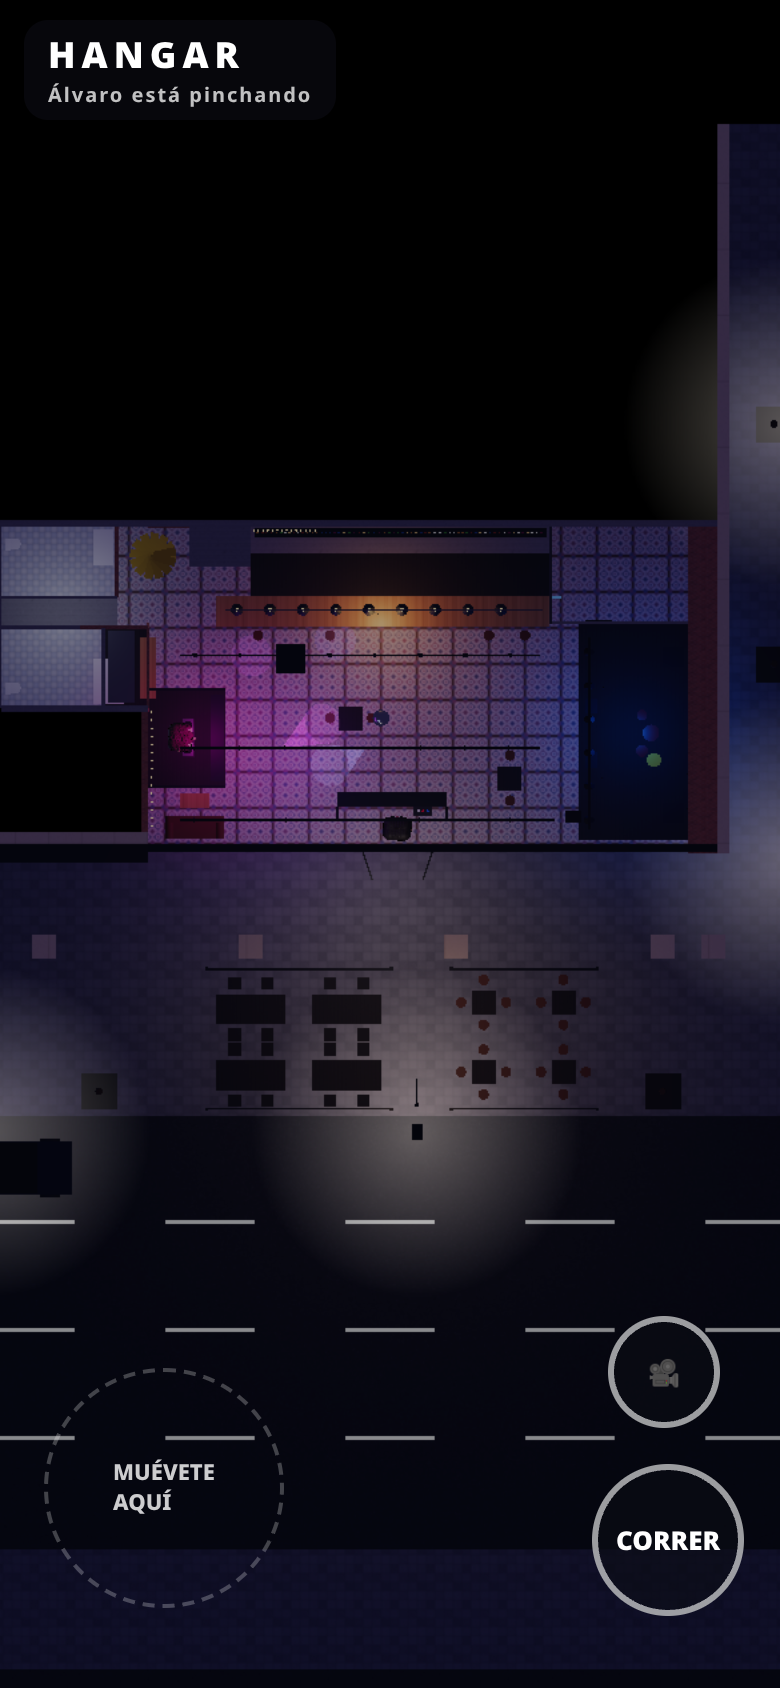
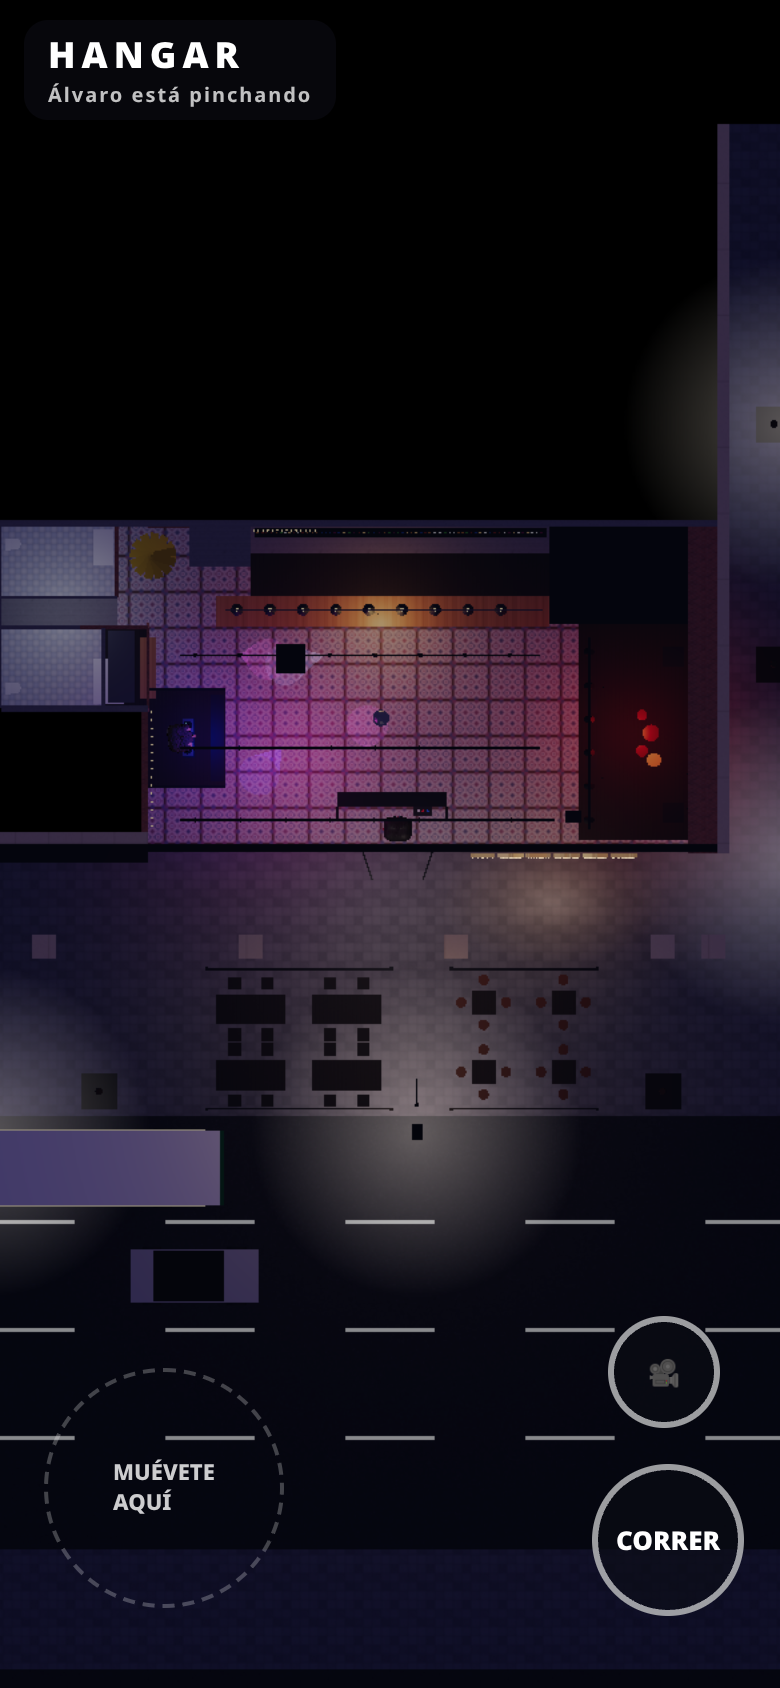
v1.1: rótulo cabaret sobre cristalera dcha., almacén cerrado, interior sin mobiliario, tramo de barra accesible

diff --git a/index.html b/index.html
@@ -856,7 +856,10 @@ pier(-6.56, P.crisIzq[0]); pier(P.crisIzq[1], P.puerta[0]); pier(P.puerta[1], P.
 B(-6.56, 3.0, -0.02, XR + 1, H + 0.6, FZ + 0.12, M.black); // faldón sobre la carpintería (interior/exterior)
 function crist(x0, x1) { col(x0, -0.02, x1, FZ + 0.1); PL(x1 - x0, 3.0, M.glass, (x0 + x1) / 2, 1.5, FZ); const n = Math.round((x1 - x0) / 1.1);
   for (let i = 0; i <= n; i++) B(x0 + (x1 - x0) * i / n - 0.03, 0, FZ - 0.04, x0 + (x1 - x0) * i / n + 0.03, 3.0, FZ + 0.04, M.frame); for (const y of [0.05, 1.0, 2.1, 2.97]) B(x0, y - 0.03, FZ - 0.04, x1, y + 0.03, FZ + 0.04, M.frame); }
-crist(...P.crisIzq); crist(...P.crisDer);
+crist(...P.crisIzq);
+{ const [x0, x1] = P.crisDer; col(x0, -0.02, x1, FZ + 0.1); const fM = std({ color: '#d9dcdc', emissive: '#a8b0b2', emissiveIntensity: 0.32, roughness: 0.9 }); B(x0, 0, FZ - 0.02, x1, 3.0, FZ + 0.02, fM); const fr = std({ color: '#3a3a3e', roughness: 0.45, metalness: 0.6 });
+  const xs = [0, 0.17, 0.34, 0.5, 0.68, 0.84, 1]; for (const f of xs) B(x0 + (x1 - x0) * f - 0.05, 0, FZ - 0.05, x0 + (x1 - x0) * f + 0.05, 3.0, FZ + 0.07, fr);
+  for (const y of [0.05, 0.85, 1.75, 2.35, 2.95]) B(x0, y - 0.05, FZ - 0.05, x1, y + 0.05, FZ + 0.07, fr); }
 { const [a, b] = P.puerta; for (const s of [0, 1]) { const x0 = s ? (a + b) / 2 + 0.02 : a, x1 = s ? b : (a + b) / 2 - 0.02; const g = new THREE.Group(); // hojas abiertas hacia dentro
   const leaf = new THREE.Mesh(new THREE.PlaneGeometry(x1 - x0, 2.6), M.glass); leaf.position.set((x1 - x0) / 2 * (s ? -1 : 1), 1.3, 0); g.add(leaf); const fr = new THREE.Mesh(new THREE.BoxGeometry(x1 - x0, 0.06, 0.06), M.frame); fr.position.set(leaf.position.x, 2.6, 0); g.add(fr); const fr2 = fr.clone(); fr2.position.y = 0.03; g.add(fr2);
   g.position.set(s ? b : a, 0, FZ - 0.05); g.rotation.y = s ? 1.25 : -1.25; scene.add(g); } B(a, 2.6, FZ - 0.05, b, 3.0, FZ + 0.05, M.frame); }
@@ -889,8 +892,10 @@ BC(...[P.columna[0], 0, P.columna[1], P.columna[2], H, P.columna[3]], M.black);
 function panelPillar(x, z, s = 0.6) { BC(x - s / 2, 0, z - s / 2, x + s / 2, H, z + s / 2, M.frame); for (const [nx, nz] of [[0, 1], [0, -1], [1, 0], [-1, 0]]) for (let j = 0; j < 4; j++) for (let k = 0; k < 2; k++) { const w = s / 2 - 0.05, hh = H / 4 - 0.07; const px = x + nx * (s / 2 + 0.005) + (nz ? (k - 0.5) * (s / 2) : 0), pz = z + nz * (s / 2 + 0.005) + (nx ? (k - 0.5) * (s / 2) : 0); PL(w, hh, M.panel, px, j * H / 4 + H / 8, pz, nx ? nx * Math.PI / 2 : (nz < 0 ? Math.PI : 0)); } }
 // (el plano solo tiene una columna: no se añaden pilares inventados)
 // --- barra (~11 m): frente de tablas lila/azul, encimera de madera clara
-{ const [x0, z0, x1, z1] = P.barra; col(x0, z0, x1, z1); B(x0, 0, z0 + 0.1, x1, 1.0, z1, M.boards); B(x0 - 0.05, 1.0, z0, x1, 1.06, z1 + 0.08, M.wood); B(x0, 0, z1 - 0.02, x1, 0.12, z1 + 0.02, M.black);
-  B(x0, 0, z0, x0 + 0.5, 1.0, z0 + 0.1, M.boards); }
+{ const [x0, z0, x1, z1] = P.barra, xa = x0 + 2.0; col(x0, z0, x1, z1); B(xa, 0, z0 + 0.1, x1, 1.0, z1, M.boards); B(xa, 1.0, z0, x1, 1.06, z1 + 0.08, M.wood); B(xa, 0, z1 - 0.02, x1, 0.12, z1 + 0.02, M.black);
+  // tramo izquierdo rebajado accesible (~0.80 m) con hueco libre para las rodillas en el lado del cliente
+  B(x0, 0, z0 + 0.1, xa, 0.74, z1 - 0.48, M.boards); B(x0 - 0.05, 0.74, z0, xa, 0.8, z1 + 0.08, M.wood); B(x0, 0, z1 - 0.5, xa, 0.12, z1 - 0.46, M.black);
+  B(xa - 0.02, 0.8, z0, xa + 0.02, 1.0, z1 + 0.08, M.boards); B(x0, 0, z0, x0 + 0.5, 0.74, z0 + 0.1, M.boards); }
 // botellero: estantes oscuros con tira LED blanca por balda, chapa ondulada detrás
 const LEDS = []; const LEDM = emi('#ffffff', 1.1);
 { const [x0, z0, x1, z1] = P.botellas; col(x0, z0, x1, z1); B(x0, 0, ZB + 0.01, x1, H, ZB + 0.03, M.corr); B(x0, 0, z0, x1, 0.9, z1, M.black); B(x0, 0.9, z0, x1, 0.95, z1, M.concrete);
@@ -899,7 +904,7 @@ const LEDS = []; const LEDM = emi('#ffffff', 1.1);
     for (let x = x0 + 0.2; x < x1 - 0.2; x += 0.13 + srnd() * 0.05) { const h = 0.22 + srnd() * 0.12, c = bcols[(srnd() * bcols.length) | 0]; if (!M['b' + c]) M['b' + c] = std({ color: c, roughness: 0.15, metalness: 0.1, emissive: c, emissiveIntensity: 0.35 }); CYL(0.035, h, M['b' + c], x, y + 0.04, ZB + 0.18, 8); CYL(0.012, 0.07, M['b' + c], x, y + 0.04 + h, ZB + 0.18, 6, 0.03); } }
   for (let x = x0 + 0.3; x < x1 - 0.2; x += 0.6) B(x, 0.95, z0 + 0.12, x + 0.5, 1.05, z0 + 0.3, std({ color: '#cfd6dc', transparent: true, opacity: 0.6, roughness: 0.1 })); } // vasos
 // neveras con puerta de cristal bajo la barra (cara interior)
-for (let x = -2.6; x < 6.4; x += 1.8) B(x, 0.05, -8.28, x + 0.8, 0.85, -8.2, std({ color: '#223', emissive: '#6af', emissiveIntensity: 0.45, roughness: 0.1 }));
+for (let x = -2.0; x < 6.4; x += 1.8) B(x, 0.05, -8.28, x + 0.8, 0.85, -8.2, std({ color: '#223', emissive: '#6af', emissiveIntensity: 0.45, roughness: 0.1 }));
 // grifo de cerveza y TPV
 CYL(0.03, 0.35, M.metal, 1.0, 1.06, -7.7, 8); for (let i = 0; i < 3; i++) CYL(0.012, 0.18, std({ color: '#111' }), 0.9 + i * 0.1, 1.3, -7.66, 6);
 // lámparas de campana colgadas de un tubo sobre la barra
@@ -907,7 +912,7 @@ const WARM = []; { B(-4.0, 2.65, -7.83, 6.6, 2.69, -7.79, M.metal); for (let x =
   const bulb = new THREE.Mesh(new THREE.SphereGeometry(0.06, 10, 8), emi('#ffb860', 1.6)); bulb.position.set(x, 2.02, -7.81); scene.add(bulb); WARM.push(bulb); } }
 // taburetes de cuero frente a la barra
 const stool = (x, z, h = 0.75) => { CYL(0.18, 0.08, M.leather, x, h, z, 14); for (let i = 0; i < 4; i++) { const a = i * Math.PI / 2 + 0.78; addG(new THREE.CylinderGeometry(0.012, 0.012, h, 5), M.frame, x + Math.cos(a) * 0.12, h / 2, z + Math.sin(a) * 0.12); } col(x - 0.2, z - 0.2, x + 0.2, z + 0.2); };
-for (const x of [-2.9, -0.5, 4.8, 6.0]) stool(x, -6.95);
+// (sin taburetes en la barra: interior sin mobiliario, a petición de Antonio)
 // --- escenario elevado: tarima, reja frontal, pantalla LED, PAR rojos en barra negra, altavoz colgado
 const STG = { x0: 7.81, x1: 11.44, z0: -7.34, z1: 0, h: 0.6 };
 { col(STG.x0, STG.z0, STG.x1, STG.z1); B(STG.x0, 0, STG.z0, STG.x1, STG.h, STG.z1 - 0.12, M.black); B(STG.x0, STG.h, STG.z0, STG.x1, STG.h + 0.02, STG.z1 - 0.12, M.darkwood);
@@ -924,8 +929,8 @@ const PARS = []; { B(STG.x0 + 0.3, 3.15, -6.9, STG.x0 + 0.38, 3.22, -0.5, M.blac
 { const drum = std({ color: '#7a1a1a', roughness: 0.3, metalness: 0.2 }); CYL(0.28, 0.4, drum, 10.2, STG.h, -3.7, 18); for (const [dz, r] of [[-0.6, 0.18], [0.6, 0.2]]) CYL(r, 0.25, drum, 9.9, STG.h + 0.45, -3.7 + dz, 14); CYL(0.24, 0.02, M.yellow, 10.3, STG.h + 1.0, -2.8, 16); CYL(0.01, 1.0, M.metal, 10.3, STG.h, -2.8, 4);
   B(10.6, STG.h, -6.6, 11.3, STG.h + 1.1, -5.9, M.black); B(10.6, STG.h, -1.4, 11.3, STG.h + 1.1, -0.7, M.black); for (const z of [-5.2, -2.2]) { CYL(0.012, 1.45, M.metal, 8.6, STG.h, z, 4); addG(new THREE.SphereGeometry(0.04, 8, 6), M.black, 8.6, STG.h + 1.5, z); }
   for (const z of [-4.6, -2.8]) addG(new THREE.BoxGeometry(0.4, 0.28, 0.5), M.black, 8.2, STG.h + 0.14, z, 0, 0); }
-// backstage cerrado (al final de la barra, encima del escenario)
-{ const [x0, z0, x1, z1] = P.backstage; col(x0, z0, x1, z1); B(x0, 0, z1 - 0.1, x1, H, z1, M.concrete); B(x0, 0, z0, x0 + 0.1, H, z1, M.corr); B(x0 + 1.2, 0, z1 - 0.12, x0 + 2.1, 2.1, z1 - 0.1, std({ color: '#111' })); }
+// almacén (antes backstage): volumen macizo fuera del local, paredes a ras del final de la barra y del escenario
+{ const [x0, z0, x1, z1] = P.backstage; col(x0, z0, x1, z1); B(x0, 0, z0, x1, H, z1, M.concrete); B(x0, H, z0, x1, H + 0.03, z1, M.black); }
 // --- tabique (biombo) con portero, accesos de entrada/salida, mesita con vasos
 { const [x0, z0, x1, z1] = P.tabique; BC(x0, 0, z0, x1, 2.4, z1, M.concrete); B(x0, 2.4, z0, x1, 2.46, z1, M.black);
   BC(x0 - 0.05, 0, z1, x0 + 0.05, 2.0, -0.85, M.frame); BC(x1 - 0.05, 0, z1, x1 + 0.05, 2.0, -0.85, M.frame);
@@ -935,12 +940,12 @@ const SPOTS = { portero: { x: 1.75, z: -1.0 }, camarero1: { x: 0.5, z: -8.9 }, c
 const sign = (txt, x, z, ry, w = 0.9) => { const t = textTex(256, 64, (c, W, Hh) => { c.fillStyle = '#111'; c.fillRect(0, 0, W, Hh); c.fillStyle = '#f2f2f2'; c.font = 'bold 30px Arial Black, sans-serif'; c.textAlign = 'center'; c.fillText(txt, W / 2, 44); }); const m = new THREE.Mesh(new THREE.PlaneGeometry(w, w / 4), new THREE.MeshBasicMaterial({ map: t })); m.position.set(x, 2.25, z); m.rotation.y = ry; scene.add(m); };
 sign('ENTRADA', -0.6, -1.05, Math.PI / 2, 0.8); sign('SALIDA', 3.75, -1.05, -Math.PI / 2, 0.8);
 // --- decoración: Chesterfield, mesa baja, mesas altas, escalera de caracol amarilla, carteles, '90', guirnaldas, bola de espejos
-{ const x = -5.0, z = -0.55; const g = new THREE.Group(); const seat = new THREE.Mesh(new THREE.BoxGeometry(1.7, 0.42, 0.7), M.leather); seat.position.y = 0.21; g.add(seat); const back = new THREE.Mesh(new THREE.BoxGeometry(1.7, 0.4, 0.2), M.leather); back.position.set(0, 0.6, 0.27); g.add(back);
-  for (const s of [-1, 1]) { const arm = new THREE.Mesh(new THREE.CylinderGeometry(0.14, 0.14, 0.75, 12), M.leather); arm.rotation.x = Math.PI / 2; arm.position.set(s * 0.85, 0.5, 0); g.add(arm); }
-  for (let i = 0; i < 12; i++) { const bt = new THREE.Mesh(new THREE.SphereGeometry(0.018, 6, 4), std({ color: '#2a160c' })); bt.position.set(-0.75 + (i % 6) * 0.3, 0.55 + Math.floor(i / 6) * 0.15, 0.16); g.add(bt); }
-  g.position.set(x, 0, z); g.rotation.y = Math.PI; scene.add(g); col(x - 1.0, z - 0.4, x + 1.0, z + 0.4); BC(x - 0.5, 0.35, z - 1.15, x + 0.5, 0.4, z - 0.65, M.wood); for (const [a, b] of [[-0.45, -1.1], [0.45, -1.1], [-0.45, -0.7], [0.45, -0.7]]) B(x + a - 0.02, 0, z + b - 0.02, x + a + 0.02, 0.35, z + b + 0.02, M.frame); }
+// (sin Chesterfield ni mesa baja en el interior)
+
+
+
 const hiTable = (x, z, top = M.darkwood) => { BC(x - 0.4, 1.05, z - 0.4, x + 0.4, 1.1, z + 0.4, top); CYL(0.04, 1.05, M.frame, x, 0, z, 8); CYL(0.25, 0.03, M.frame, x, 0, z, 16); };
-hiTable(0.2, -4.2); hiTable(5.5, -2.2); for (const [x, z] of [[-0.5, -4.2], [0.9, -4.2], [5.5, -1.45], [5.5, -2.95]]) stool(x, z);
+// (sin mesas altas ni taburetes en el interior)
 // escalera de caracol amarilla (decorativa, junto a la muesca)
 { const x = -6.4, z = -9.6; CYL(0.06, H, M.yellow, x, 0, z, 10); for (let i = 0; i < 14; i++) { const a = i * 0.5, y = 0.2 + i * 0.24; const st = new THREE.BoxGeometry(0.75, 0.04, 0.28); st.translate(0.4, 0, 0); addG(st, M.yellow, x, y, z, a); const pole = new THREE.CylinderGeometry(0.012, 0.012, 0.9, 5); pole.translate(0.76, 0.45, 0); addG(pole, M.yellow, x, y, z, a); } col(x - 0.85, z - 0.85, x + 0.85, z + 0.85); }
 // carteles
@@ -988,10 +993,35 @@ for (let i = 0; i < 7; i++) B(-10 + i * 0.9 + 30, -0.119, CURB + 0.6, -9.5 + i *
 PL(73, PZ + 0.5, M.slats, -23.5, PORT_H, (PZ + 0.5) / 2, 0, Math.PI / 2); const DOWN = []; for (let x = -24; x < 12; x += 2.4) for (const z of [1.2, 2.6]) { const d = new THREE.Mesh(new THREE.CircleGeometry(0.09, 10), emi('#fff2d8', 1.5)); d.position.set(x, PORT_H - 0.01, z); d.rotation.x = Math.PI / 2; scene.add(d); DOWN.push(d); }
 for (let x = -58.2; x < 12; x += 6.88) { const px = x + 0.0; if (px > 11) break; BC(px - 0.4, 0, PZ - 0.4, px + 0.4, PORT_H, PZ + 0.4, M.stone); }
 BC(11.9, 0, PZ - 0.4, 12.7, PORT_H, PZ + 0.4, M.stone); // pilar de la esquina
-// fachada del local por fuera: faldón oscuro con letras blancas iluminadas HANGAR sobre la entrada
+// fachada del local por fuera: faldón oscuro (el rótulo va sobre la cristalera derecha)
 B(-6.56, H + 0.2, FZ + 0.12, XR + 1, PORT_H, FZ + 0.16, M.black);
-const SIGN = textTex(1024, 192, (x, w, h) => { x.clearRect(0, 0, w, h); x.fillStyle = '#ffffff'; x.font = 'bold 150px Arial Black, Arial, sans-serif'; x.textAlign = 'center'; x.shadowColor = '#ffffff'; x.shadowBlur = 18; x.fillText('HANGAR', w / 2, 158); });
-{ const m = new THREE.Mesh(new THREE.PlaneGeometry(4.2, 0.79), new THREE.MeshBasicMaterial({ map: SIGN, transparent: true })); m.position.set(1.75, H + 0.62, FZ + 0.19); scene.add(m); }
+// rótulo HANGAR estilo cabaret sobre la cristalera derecha: banda de lamas oscuras + letras 3D con bombillas
+const MARQ = (() => { const [sx0, sx1] = P.crisDer, SZ = FZ + 0.2;
+  const slT = textTex(64, 256, (x, w, h) => { x.fillStyle = '#16161a'; x.fillRect(0, 0, w, h); for (let y = 0; y < h; y += 16) { x.fillStyle = '#2a2a30'; x.fillRect(0, y, w, 9); x.fillStyle = '#0a0a0c'; x.fillRect(0, y + 13, w, 3); } }); slT.wrapS = slT.wrapT = THREE.RepeatWrapping; slT.repeat.set((sx1 - sx0) * 2, 1.6 / 1.6 * 3);
+  { const m = new THREE.Mesh(new THREE.PlaneGeometry(sx1 - sx0 + 0.3, 1.6), new THREE.MeshStandardMaterial({ map: slT, roughness: 0.55, metalness: 0.3 })); m.position.set((sx0 + sx1) / 2, 3.8, SZ - 0.02); scene.add(m); }
+  const arc = (cx, cy, rx, ry, a0, a1, n) => { const o = []; for (let i = 0; i <= n; i++) { const a = (a0 + (a1 - a0) * i / n) * Math.PI / 180; o.push([cx + rx * Math.cos(a), cy + ry * Math.sin(a)]); } return o; };
+  const L = { H: [[[0, 0], [0, 1]], [[0.66, 0], [0.66, 1]], [[0, 0.5], [0.66, 0.5]]], A: [[[0, 0], [0.34, 1], [0.68, 0]], [[0.16, 0.38], [0.52, 0.38]]], N: [[[0, 0], [0, 1], [0.66, 0], [0.66, 1]]],
+    G: [arc(0.35, 0.5, 0.35, 0.5, 45, 360, 12), [[0.38, 0.46], [0.7, 0.46]]], R: [[[0, 0], [0, 1], [0.36, 1]].concat(arc(0.36, 0.75, 0.27, 0.25, 90, -90, 8)).concat([[0, 0.5]]), [[0.3, 0.5], [0.7, 0]]] };
+  const LH = 1.0, SW = 0.15, DEP = 0.12, gap = 0.26, word = 'HANGAR', wid = c => c === 'G' || c === 'R' ? 0.7 : c === 'A' ? 0.68 : 0.66;
+  const tot = [...word].reduce((a, c) => a + wid(c) * LH, 0) + gap * 5; let cx = (sx0 + sx1) / 2 - tot / 2; const geos = [], bulbs = [], halos = [];
+  [...word].forEach((c, i) => { const y0 = 3.06 + i * 0.065, x0 = cx; halos.push([x0 + wid(c) * LH / 2, y0 + LH / 2]);
+    for (const pl of L[c]) for (let k = 0; k < pl.length - 1; k++) { const ax = x0 + pl[k][0] * LH, ay = y0 + pl[k][1] * LH, bx = x0 + pl[k + 1][0] * LH, by = y0 + pl[k + 1][1] * LH, len = Math.hypot(bx - ax, by - ay);
+      const g = new THREE.BoxGeometry(len + SW * 0.85, SW, DEP); g.rotateZ(Math.atan2(by - ay, bx - ax)); g.translate((ax + bx) / 2, (ay + by) / 2, SZ + DEP / 2); geos.push(g);
+      const step = LITE ? 0.17 : 0.105, nb = Math.max(1, Math.round(len / step)); for (let j = (k === 0 ? 0 : 1); j <= nb; j++) bulbs.push([ax + (bx - ax) * j / nb, ay + (by - ay) * j / nb]); }
+    cx += wid(c) * LH + gap; });
+  const bodyM = std({ color: '#e9cf98', emissive: '#c08a3c', emissiveIntensity: 0.55, roughness: 0.45, metalness: 0.15 });
+  for (const g of geos) addG(g, bodyM);
+  const bm = new THREE.MeshBasicMaterial({ color: '#ffffff', toneMapped: false }); const IM = new THREE.InstancedMesh(new THREE.SphereGeometry(0.034, LITE ? 6 : 8, LITE ? 4 : 6), bm, bulbs.length); const mm = new THREE.Matrix4(), base = new THREE.Color(2.4, 1.95, 1.3), cc = new THREE.Color();
+  bulbs.forEach((b, i) => { mm.makeTranslation(b[0], b[1], SZ + DEP + 0.02); IM.setMatrixAt(i, mm); IM.setColorAt(i, base); }); scene.add(IM);
+  const hT = textTex(128, 128, (x, w, h) => { const g = x.createRadialGradient(64, 64, 4, 64, 64, 64); g.addColorStop(0, 'rgba(255,200,120,0.55)'); g.addColorStop(0.45, 'rgba(255,170,80,0.2)'); g.addColorStop(1, 'rgba(255,150,60,0)'); x.fillStyle = g; x.fillRect(0, 0, w, h); });
+  const hM = new THREE.MeshBasicMaterial({ map: hT, transparent: true, blending: THREE.AdditiveBlending, depthWrite: false });
+  for (const [hx, hy] of halos) { const m = new THREE.Mesh(new THREE.PlaneGeometry(1.7, 1.7), hM); m.position.set(hx, hy, SZ + 0.005); scene.add(m); }
+  { const m = new THREE.Mesh(new THREE.PlaneGeometry(sx1 - sx0 + 1.5, 4.2), new THREE.MeshBasicMaterial({ map: hT, transparent: true, opacity: 0.5, blending: THREE.AdditiveBlending, depthWrite: false })); m.rotation.x = -Math.PI / 2; m.position.set((sx0 + sx1) / 2, 0.025, 1.9); scene.add(m); }
+  if (!LITE) { const l = new THREE.PointLight('#ffc27a', 9, 8, 1.6); l.position.set((sx0 + sx1) / 2, 3.2, 1.4); scene.add(l); }
+  else { const l = new THREE.PointLight('#ffc27a', 6, 7, 1.6); l.position.set((sx0 + sx1) / 2, 3.2, 1.4); scene.add(l); }
+  const ph = bulbs.map(() => Math.random() * 100); let acc = 0;
+  return { IM, update(dt, t) { acc += dt; if (acc < 0.08) return; acc = 0; for (let i = 0; i < bulbs.length; i++) { const k = 0.82 + 0.18 * Math.sin(t * 2.2 + ph[i]) + (Math.sin(t * 7.3 + ph[i] * 3) > 0.985 ? -0.5 : 0); cc.copy(base).multiplyScalar(k); IM.setColorAt(i, cc); } IM.instanceColor.needsUpdate = true; } };
+})();
 // vecino de la izquierda: bar de tapas (solo fachada)
 { B(-30, 0, -0.4, -6.56, PORT_H, 0.0, M.stone); for (const [a, b] of [[-26, -21], [-19.5, -14.5], [-13, -8]]) { B(a, 0.1, -0.02, b, 3.0, 0.02, std({ color: '#4a2e18', emissive: '#ffa860', emissiveIntensity: 0.55, roughness: 0.2 })); for (let x = a; x <= b; x += (b - a) / 3) B(x - 0.03, 0.1, 0.0, x + 0.03, 3.0, 0.05, M.frame); }
   const t = textTex(512, 96, (x, w, h) => { x.fillStyle = '#2a1a10'; x.fillRect(0, 0, w, h); x.fillStyle = '#f2d8a0'; x.font = 'italic bold 56px Georgia, serif'; x.textAlign = 'center'; x.fillText('Bar de Tapas', w / 2, 66); });
@@ -1055,7 +1085,7 @@ const PL_ = (c, i, d, x, y, z) => { const l = new THREE.PointLight(c, i, d, 1.6)
 const LIGHTS = { bar: PL_('#ffb860', 9, 9, 1.2, 2.3, -7.3), bar2: LITE ? null : PL_('#ffb860', 7, 8, 5.2, 2.3, -7.3), room1: PL_('#B03CFF', 12, 12, -1.5, 3.0, -3.0), room2: PL_('#FF2BD0', LITE ? 0 : 9, 10, 4.5, 3.0, -2.5),
   stage: PL_('#ff2a1a', 14, 9, 9.6, 3.0, -3.7), dj: PL_('#2A3CFF', 8, 6, -4.6, 2.6, -3.5), baths: PL_('#e8f0ff', 6, 8, -9.4, 3.0, -7.7), street: PL_('#ffd6a0', 16, 22, 2.4, 7.0, 8.0), street2: LITE ? null : PL_('#ffd6a0', 14, 22, -12, 7.0, 8.0), portico: PL_('#fff0d8', 9, 12, 1.5, 4.2, 2.0) };
 if (!LITE) { LIGHTS.stage.castShadow = false; }
-window.HW = { scene, COLL, P, DJ, STG, SPOTS, INT, CEIL, BLD, LITE, LIGHTS, RAILS, BEAMS, BALL, PARS, WARM, GARL, LED_C, LED_T, ledScreen, LEDM, updTraffic, CARS, ROOF, bake: () => bakeStatic(m => (m === M.slats || m === M.awning || m === M.leaf) ? ROOF : null), M, H, XL, XR, ZB, CURB, PZ, PORT_H, DOWN };
+window.HW = { scene, COLL, P, DJ, STG, SPOTS, INT, CEIL, BLD, LITE, LIGHTS, RAILS, BEAMS, BALL, PARS, WARM, GARL, LED_C, LED_T, ledScreen, LEDM, updTraffic, CARS, ROOF, MARQ, bake: () => bakeStatic(m => (m === M.slats || m === M.awning || m === M.leaf) ? ROOF : null), M, H, XL, XR, ZB, CURB, PZ, PORT_H, DOWN };
 })();
 </script>
 <script type="module">document.getElementById('logo').src = window.HANGAR_IMG.logo; // ===== HANGAR · juego (exploración libre) =====
@@ -1162,7 +1192,7 @@ function updLights(dt) { const b = beatPhase(), kick = Math.exp(-b * 5), bar = M
   ledT += dt; if (ledT > (LITE ? 0.12 : 0.05)) { drawLED(T); ledT = 0; } }
 // ---------- bucle ----------
 let STATE = TEST ? 'play' : 'menu', topCam = null;
-function update(dt) { T += dt; if (STATE === 'play') stepPlayer(dt); updCam(dt); alv.userData.update(dt, { speed: 0, grounded: true }); ALVARO.djPose(alv, AC ? (AC.currentTime - 0.1) : T, BPM); updLights(dt); W.updTraffic(dt); updAudio(); }
+function update(dt) { T += dt; if (STATE === 'play') stepPlayer(dt); updCam(dt); alv.userData.update(dt, { speed: 0, grounded: true }); ALVARO.djPose(alv, AC ? (AC.currentTime - 0.1) : T, BPM); updLights(dt); W.updTraffic(dt); W.MARQ.update(dt, T); updAudio(); }
 let last = performance.now(), frozen = false; function loop() { const now = performance.now(), dt = Math.min(0.05, (now - last) / 1000); last = now; if (!frozen) { update(dt); renderer.render(scene, topCam || camera); updTags(); } requestAnimationFrame(loop); }
 // menú de entrada
 $('go').addEventListener('pointerdown', e => { e.preventDefault(); startAudio(); STATE = 'play'; $('menu').classList.remove('on'); $('hud').classList.add('on'); });
